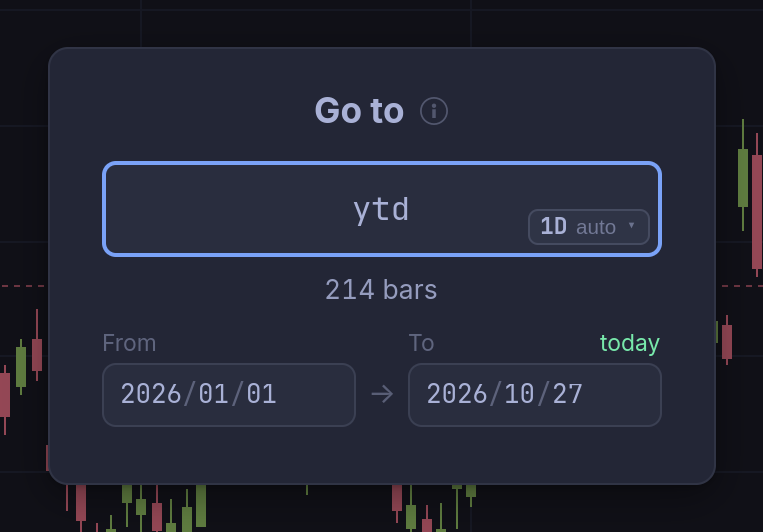
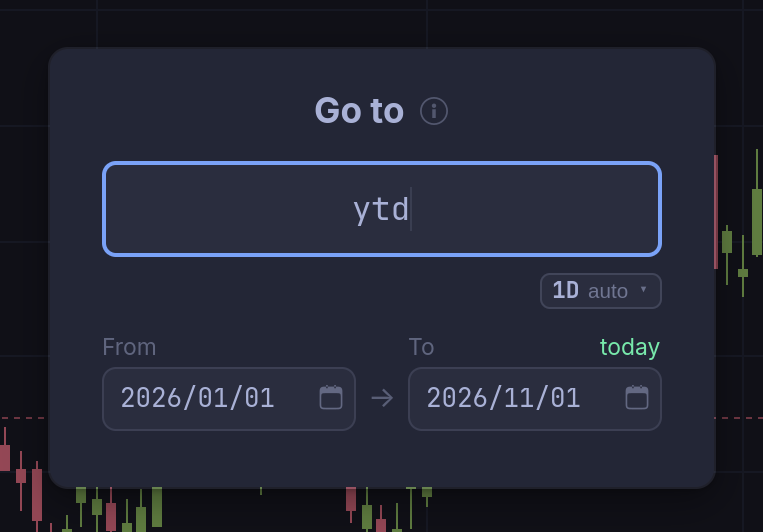
Retake the Go to captures with the resolution on its own row
Both pictures still showed the chip in the box's corner and a bar count
under it. Taken again per their recipes, with the icon theme seeded in
the sandboxed HOME so the card wears the desktop's info icon.

diff --git a/site/manual/charts.md b/site/manual/charts.md
@@ -254,10 +254,10 @@ state:
   (the Change resolution state above, without its keys)
   key ctrl+g
   type ytd
-capture: bin/headless-window shot /tmp/goto.png
+capture: bin/headless-window shot /tmp/goto.png   (icon theme seeded too: gtk-icon-theme-name=Yaru-magenta in the sandboxed HOME's gtk-4.0/settings.ini)
 crop: 898,193,763,532   (the whole card, 24px layout margin)
 -->
-{% include figure.html src="/assets/manual/charts/go-to.png" alt="The Go to card with ytd typed, 1D auto under the box, and From 2026/01/01 and To 2026/10/27, marked today" caption="**Go to** with ytd typed." %}
+{% include figure.html src="/assets/manual/charts/go-to.png" alt="The Go to card with ytd typed, 1D auto on the row under the box, and From 2026/01/01 and To 2026/11/01, marked today" caption="**Go to** with ytd typed." %}
 
 **A date (keeps the window)** starts the chart on that day, as wide as it is now: the same number of bars at the same resolution. Near the latest bar the window runs past it into empty room, as it does when you scroll past the end. The card names the whole window, such as **25 Oct – 31 Oct**.
 
@@ -313,12 +313,13 @@ Left open at the end, it runs to today, so new bars stay in it.
 theme: tokyo-night
 window: 2560x1440 @2, bin/headless-window (HOME sandboxed, theme seeded)
 state:
-  (the state above, the box emptied)
+  (the state above)
+  key ctrl+a BackSpace     # the box emptied
   key space
 capture: bin/headless-window shot /tmp/golist.png
 crop: 898,193,763,889   (the card and the list, 24px layout margin)
 -->
-{% include figure.html src="/assets/manual/charts/go-to-list.png" alt="The Go to card with the list of common ranges dropped under its empty box: ytd, 1y, 6m, 3m, mtd, 1m, 2026-09, 2026, 2025: and qtd, each with the day it starts" caption="The common ranges, with nothing typed." %}
+{% include figure.html src="/assets/manual/charts/go-to-list.png" alt="The Go to card with the list of common ranges dropped under its empty box: ytd, 1y, 6m, 3m, mtd, 1m, 2026-10, 2026, 2025: and qtd, each with the day it starts" caption="The common ranges, with nothing typed." %}
 
 ### The resolution in Go to
 
